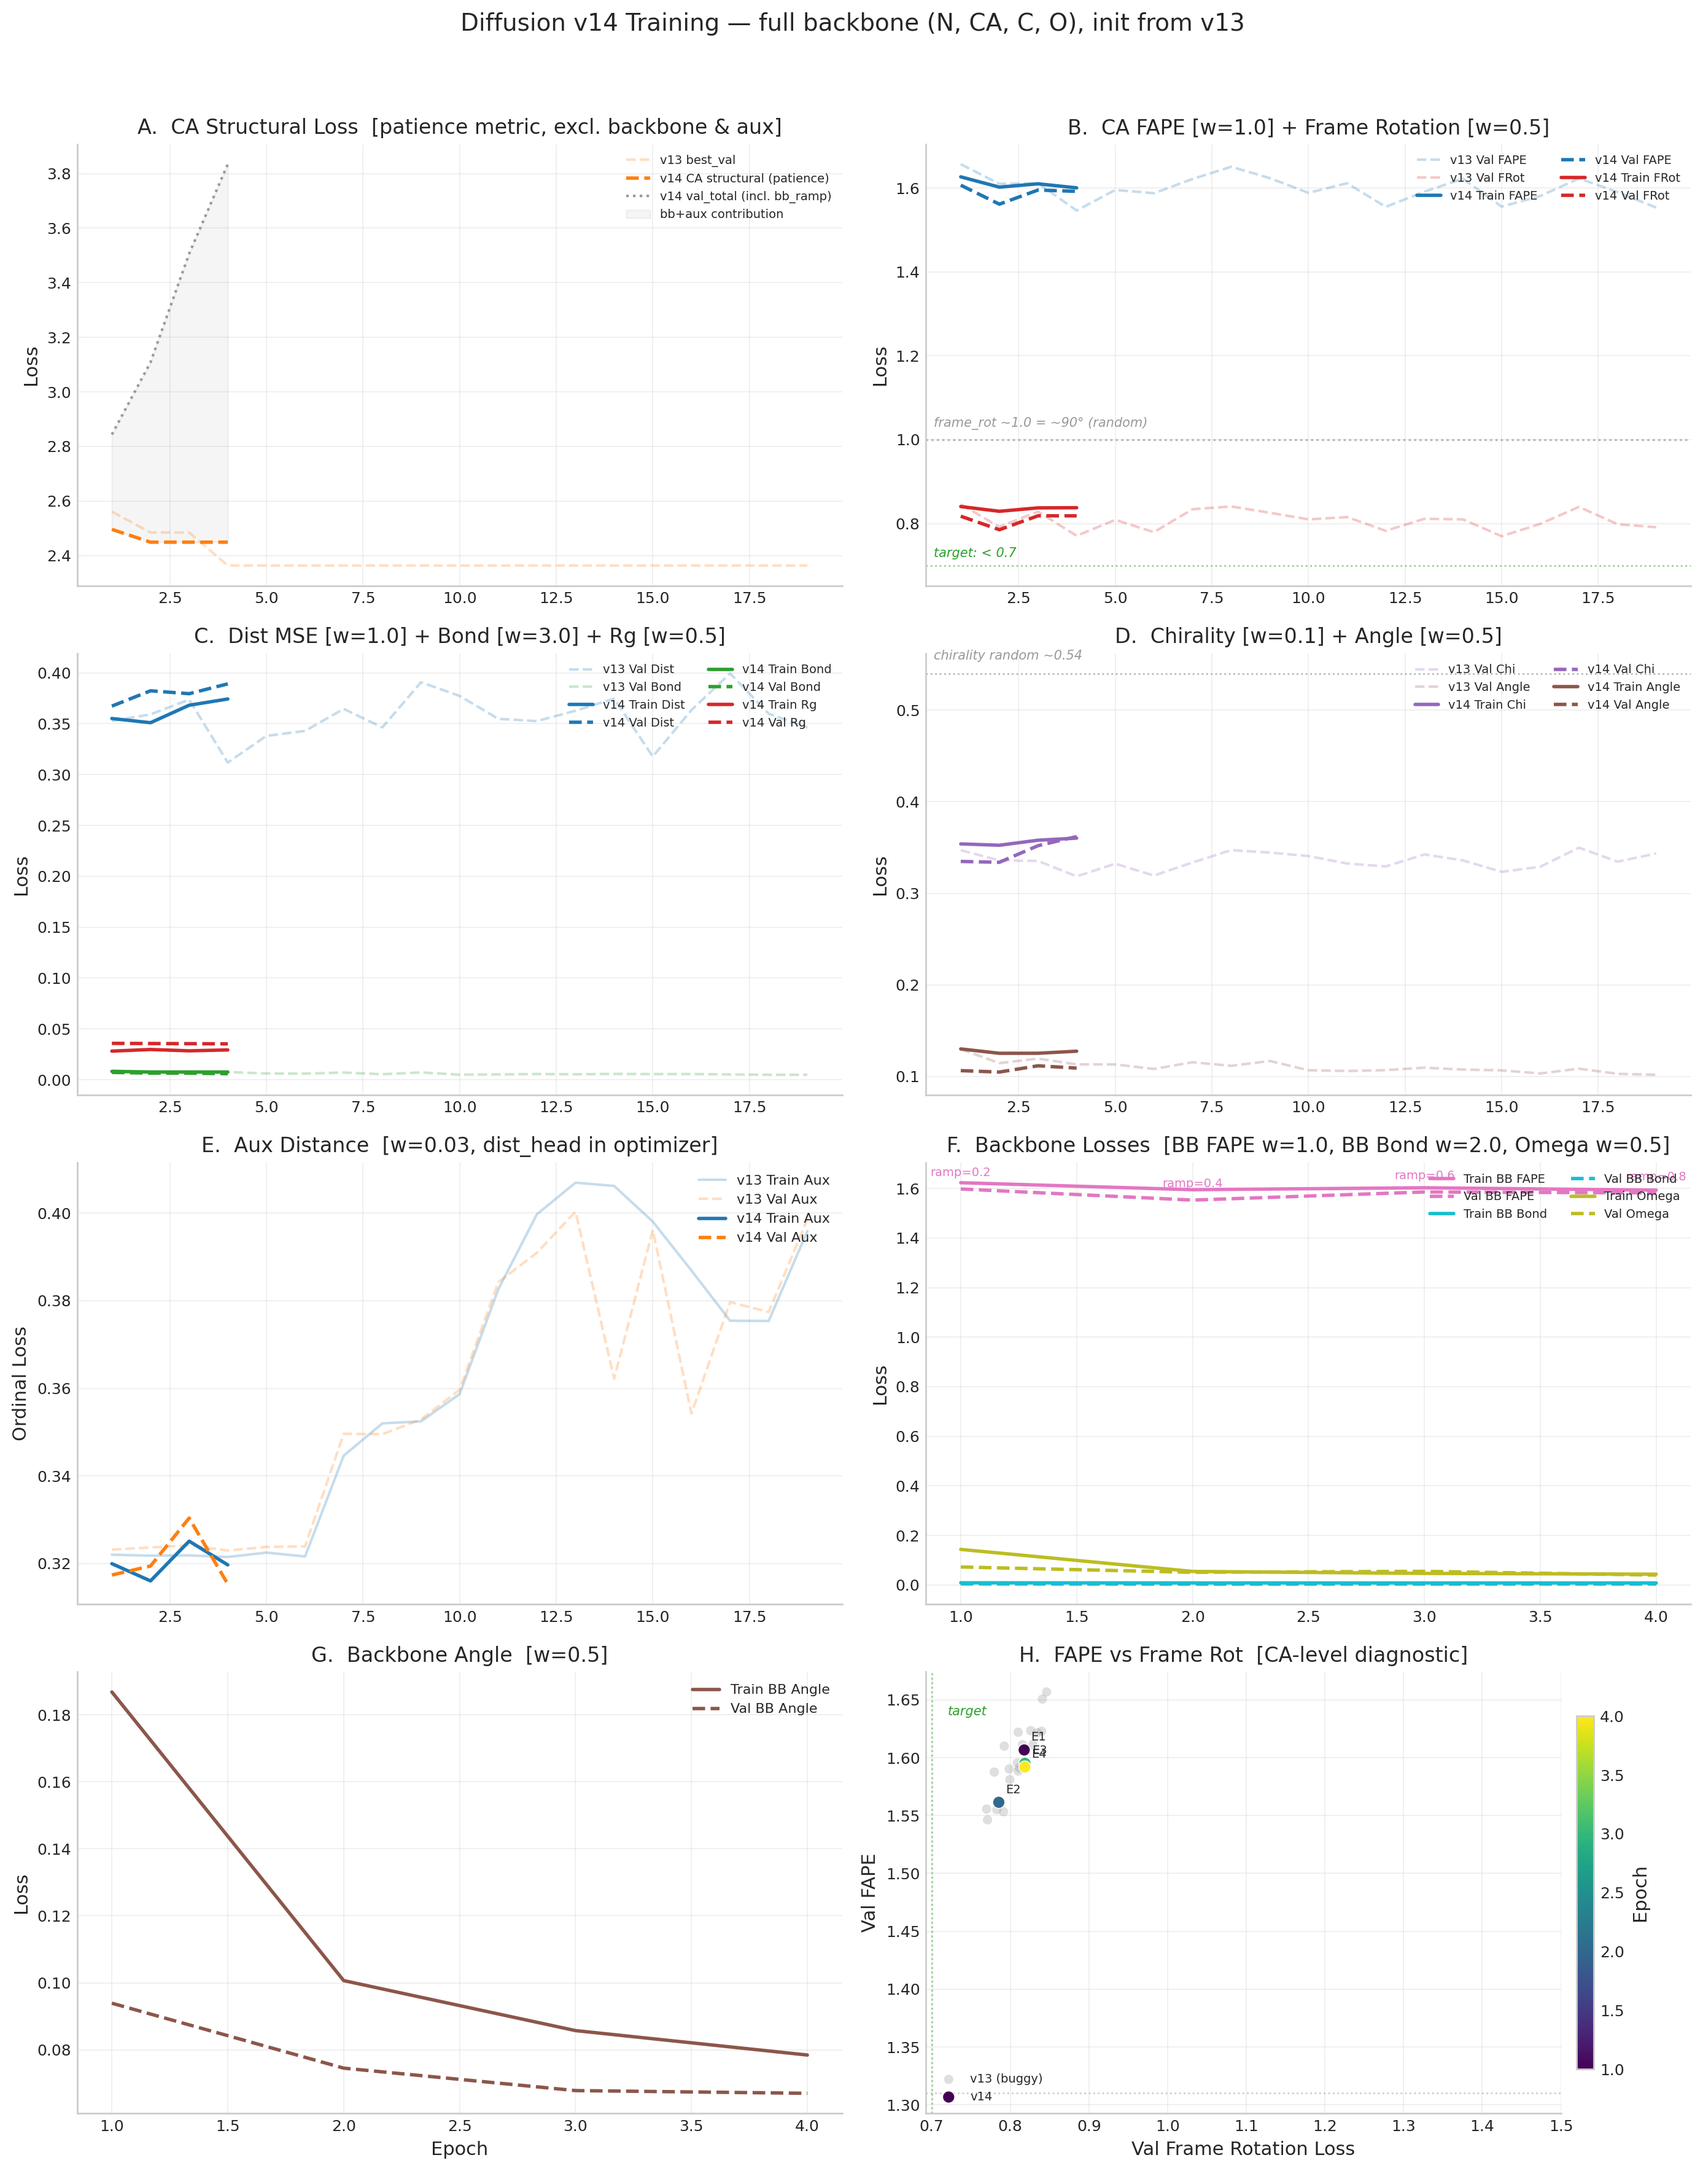
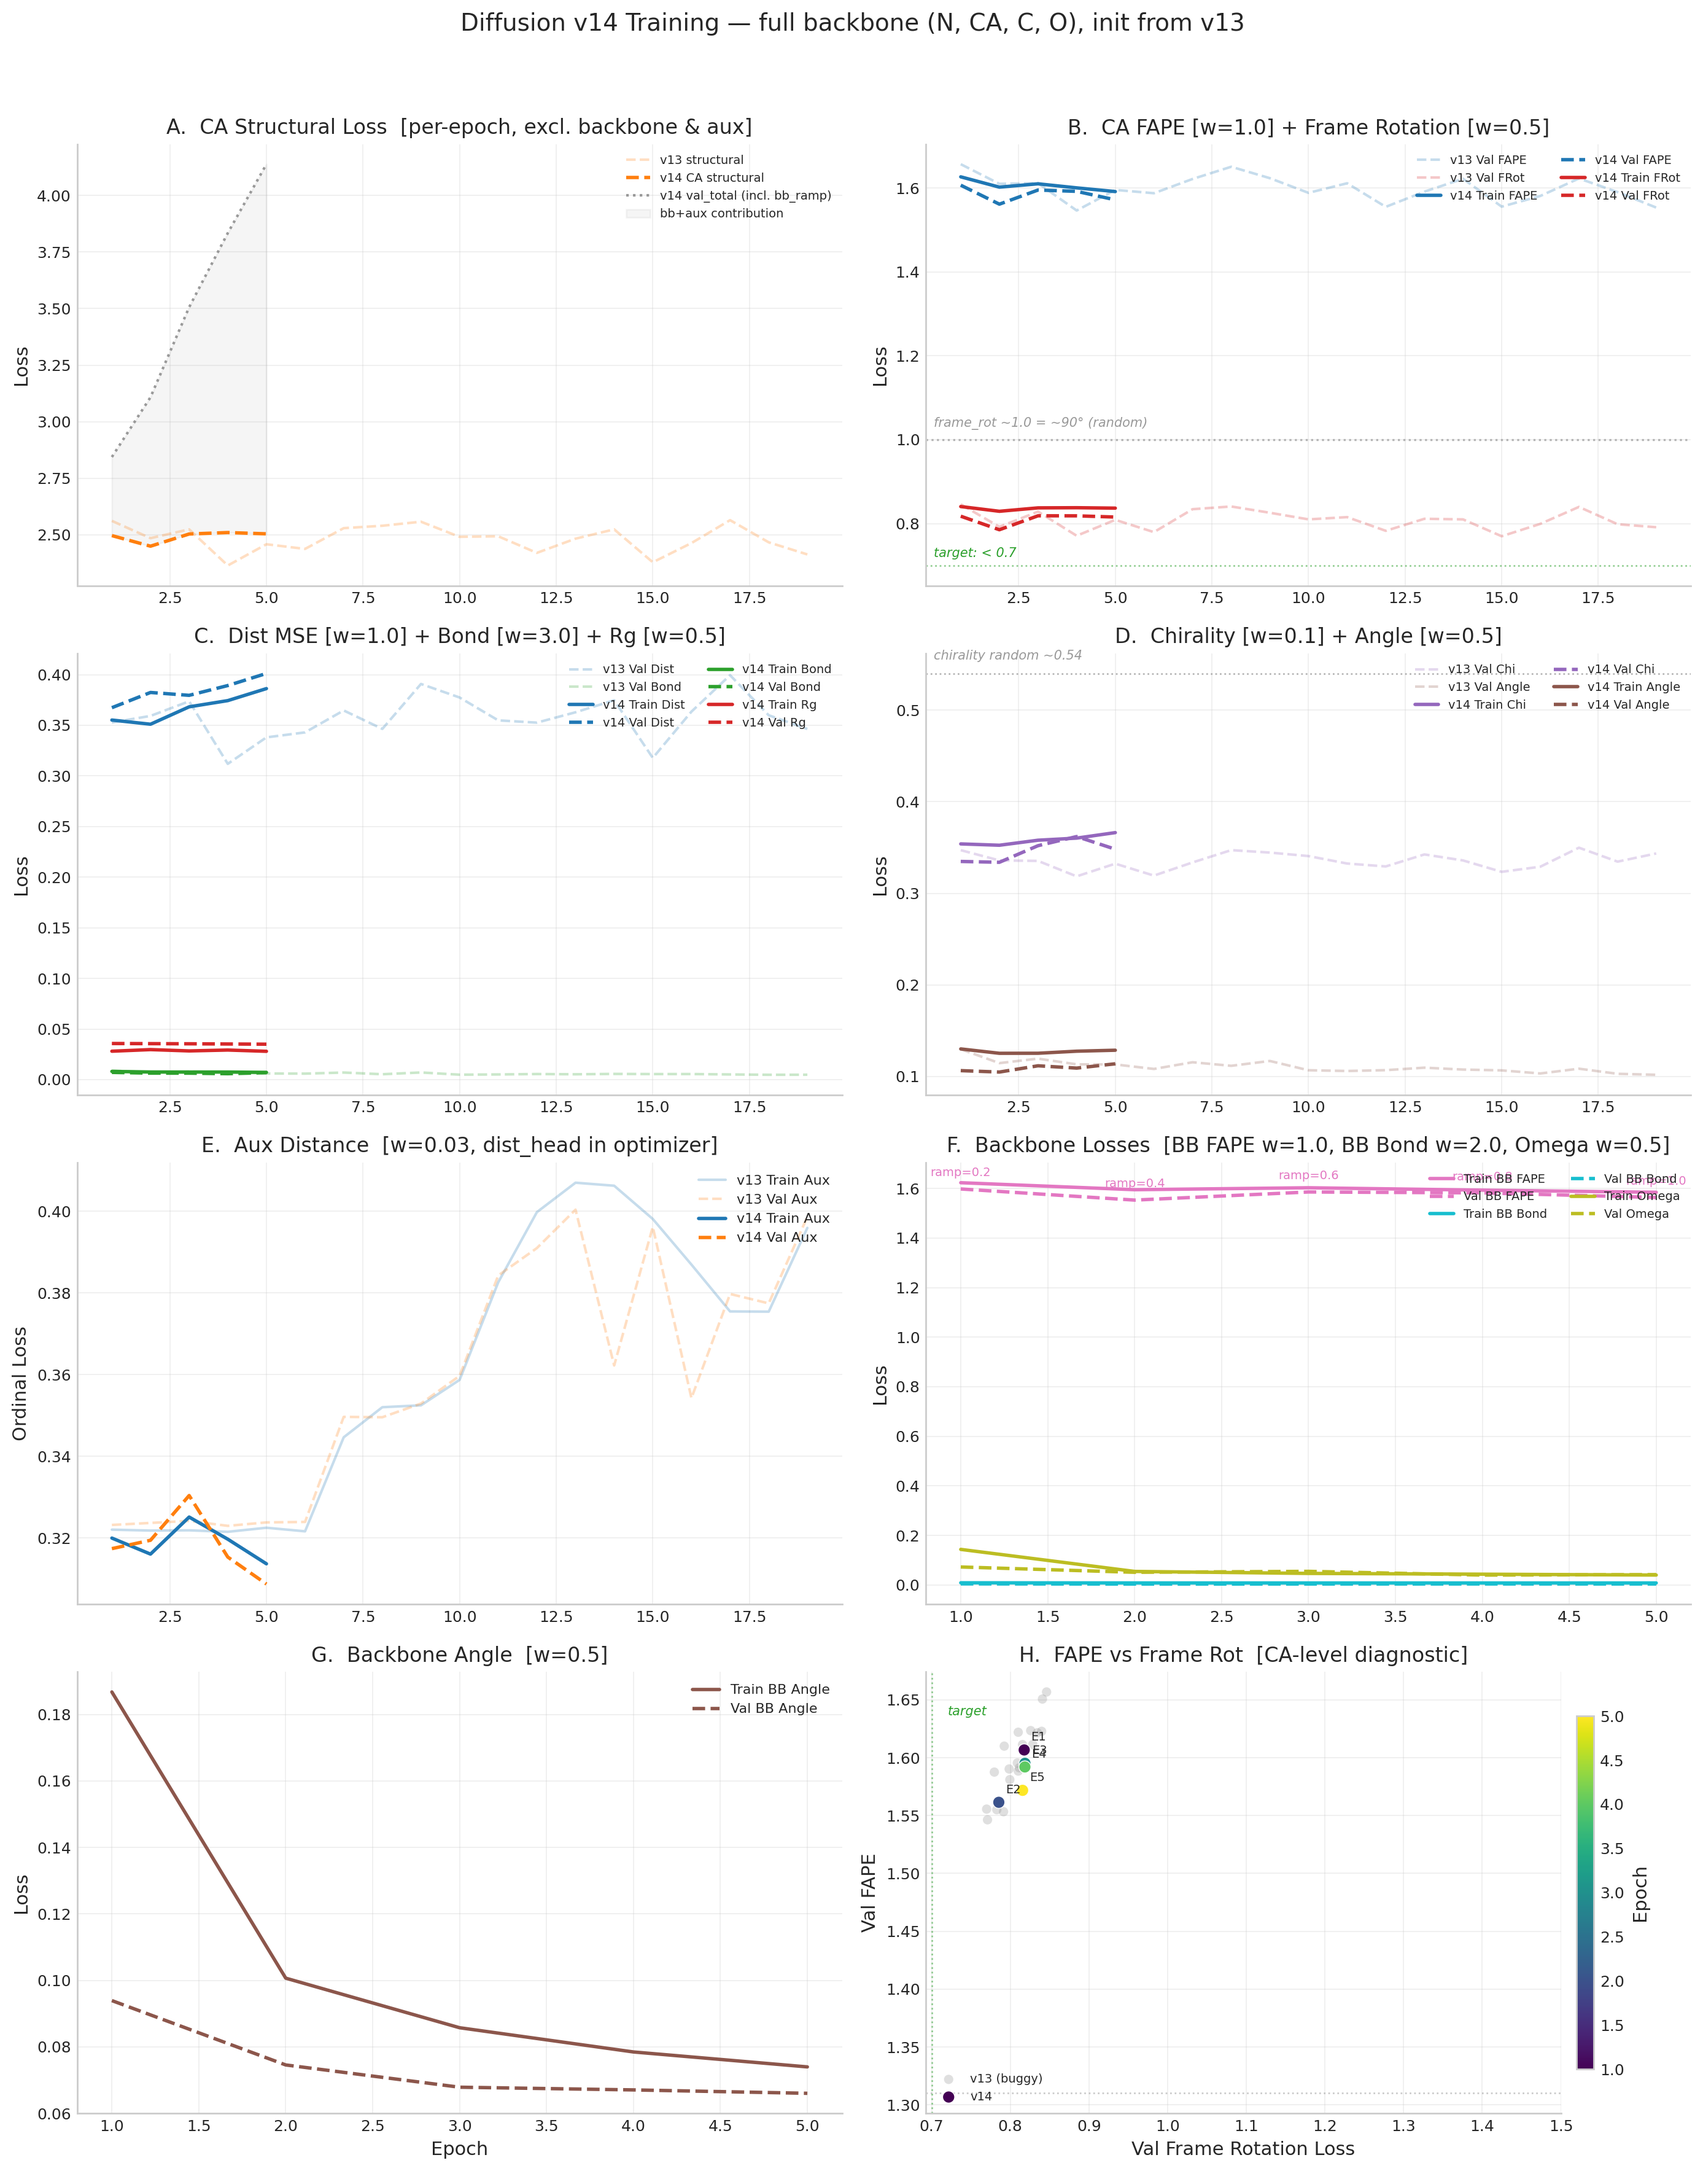
fix: show per-epoch structural loss (not running min); v13b E4 (2.928), v14 E5 (pat 3, 2.504)

diff --git a/minifold.html b/minifold.html
@@ -419,6 +419,20 @@
               <td>&mdash;</td>
               <td><span class="tag tag-best">NEW BEST</span></td>
             </tr>
+            <tr>
+              <td>4</td>
+              <td>2.928</td>
+              <td>1.835</td>
+              <td>0.977</td>
+              <td>0.401</td>
+              <td>0.015</td>
+              <td>0.325</td>
+              <td>0.476</td>
+              <td>0.217</td>
+              <td>0.041</td>
+              <td>&mdash;</td>
+              <td><span class="tag tag-best">NEW BEST</span></td>
+            </tr>
           </tbody>
         </table>
       </div>
@@ -604,7 +618,7 @@
             </tr>
             <tr>
               <td>3</td>
-              <td>2.449</td>
+              <td>2.502</td>
               <td>1.595</td>
               <td>0.819</td>
               <td>0.380</td>
@@ -616,7 +630,7 @@
             </tr>
             <tr>
               <td>4</td>
-              <td>2.449</td>
+              <td>2.510</td>
               <td>1.592</td>
               <td>0.818</td>
               <td>0.389</td>
@@ -625,6 +639,18 @@
               <td>0.040</td>
               <td>&mdash;</td>
               <td><span class="tag tag-pat">pat 2</span></td>
+            </tr>
+            <tr>
+              <td>5</td>
+              <td>2.504</td>
+              <td>1.572</td>
+              <td>0.816</td>
+              <td>0.401</td>
+              <td>1.564</td>
+              <td>0.004</td>
+              <td>0.042</td>
+              <td>&mdash;</td>
+              <td><span class="tag tag-pat">pat 3</span></td>
             </tr>
           </tbody>
         </table>
